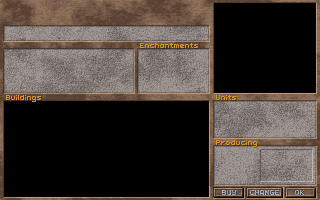
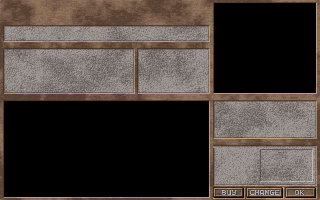
City screen: Enchantments, Buildings, Units and Producing drawn from keys; Buildings no longer clipped by the town view (task 511)
Claude-Session: https://claude.ai/code/session_01UzZBhySU9sHQNRBcWLfay8

diff --git a/crates/f4x-client/src/city_screen.rs b/crates/f4x-client/src/city_screen.rs
@@ -259,12 +259,13 @@ impl App {
             self.choosing = true;
         }
         self.draw_city_header(page, lay, input);
-        self.draw_city_headings(lay);
         self.draw_city_resources(&mut page.panel, city, lay, input);
         self.draw_city_buildings(&mut page.panel, city, lay, input);
         self.draw_city_area(page, lay, input);
         self.draw_city_garrison(city, lay);
         self.draw_city_production(page, lay, input);
+        // After the town view, so that nothing covers the tail of the g of Buildings.
+        self.draw_city_headings(lay);
         if renaming {
             self.choosing = was_choosing;
             self.draw_rename_box(page, input);
@@ -444,9 +445,18 @@ impl App {
     /// race line (the same font and gold, measured from the picture).
     fn draw_city_headings(&mut self, lay: Layout) {
         let view = Self::view(lay);
-        let text = self.text("city.heading_resources");
         let style = Style::city_figures().edge(rgb(0x59, 0x41, 0x34));
-        self.draw_styled(view, &style, &text, 6.0, 43.0);
+        // The top left of each heading's lettering, in the original's pixels.
+        for (key, x, y) in [
+            ("city.heading_resources", 6.0, 43.0),
+            ("city.heading_enchantments", 140.0, 43.0),
+            ("city.heading_buildings", 6.0, 95.0),
+            ("city.heading_units", 216.0, 95.0),
+            ("city.heading_producing", 216.0, 140.0),
+        ] {
+            let text = self.text(key);
+            self.draw_styled(view, &style, &text, x, y);
+        }
     }
 
     fn draw_city_header(&mut self, page: &mut CityPage, lay: Layout, input: &Input) {

diff --git a/scripts/city_headings_text_free.py b/scripts/city_headings_text_free.py
@@ -3,7 +3,7 @@
 
 Reads `assets-local/screens/city_screen/background_00.png` (local-only extractor output, `backgrnd`
 entry 6) and writes `crates/f4x-client/assets/city/background.png`: the same 320x200 picture with
-the headings taken out (Resources so far), so the client draws them itself from the text keys
+the headings taken out (Resources, Enchantments, Buildings, Units and Producing), so the client draws them itself from the text keys
 `city.heading_*` and they can be localised. Needs Pillow (`.venv`).
 
 A heading is gold lettering (df961c) with a darker edge and shadow on the speckled brown bar. The
@@ -26,6 +26,14 @@ GOLD = (0xDF, 0x96, 0x1C)
 # is inclusive.
 HEADINGS = [
     ("resources", 3, 52, 42, 48, 52),
+    # Taken from the clean stretch of the Resources bar, the same rows (the bar is 85 columns
+    # to the left).
+    ("enchantments", 137, 201, 42, 48, -85),
+    # The tail of the g reaches the row of the frame under the bar (101).
+    ("buildings", 4, 43, 94, 101, 45),
+    ("units", 213, 238, 94, 100, 25),
+    # The tail of the g reaches the first row of the panel (146), its shadow the next.
+    ("producing", 213, 260, 139, 147, 45),
 ]
 
 

diff --git a/docs/scripts.md b/docs/scripts.md
@@ -30,7 +30,7 @@ row when you add or change a script (see `CLAUDE.md`).
 | `unused_art.py` | Lists the screen pictures no run of the client read (`F4X_TRACE_ART=FILE` makes the client append every picture file it reads to FILE): candidates for `crates/f4x-client/extract/unused.tsv`, to be checked by hand (computed indexes make a picture look unread). No dependencies. |
 | `button_text_free.py` | Makes the text-free copies of the main screen's buttons (`assets-local/screens/main_screen/button_<name>_00.png` to `crates/f4x-client/assets/button/<name>.png`): the seven menu-bar buttons (style 4 label with its three "shadow down" copies) the Next Turn button (style 4 gold lettering, dark shadow, cleaned by colour) the unit window's Done, Patrol, Wait, Build, Meld and Purify (style 0 label, up and locked) the city screen's wooden Buy, Change and OK (`city_<name>.png`, style 1 label in lavender grey) the army list's blue Items and Ok (`panel_41.png`), the item screen's stone Alchemy and Ok (`stone_59.png`), the magic screen's blue ones (`blue_26.png`, `blue_58.png`) the new game screens' wooden OK (`wood_64.png`, `wood_30.png`), the options screen's `options_frame.png`, the battle screen's blank gold button (`battle.png`, `battle_locked.png`) and their lettering's metallic sheen (`sheen_<family>_<button>.png`, the colour of each diagonal) and the plank `plank_<width>.png` (38, 39, 40, 58) (the load/save blank widened, for the Settings Ok). The label's ink is found by its colour and its pixels are filled with the marbling of the same row. The client draws the labels itself (`menu_bar_art.rs`, `action_button_art.rs`). Also the question boxes' `yes.png`/`no.png`, the alchemy popup's `alchemy_frame.png`/`alchemy_stone.png`, and the crafting screen's `tab.png`/`craft_ok.png`. Reads the originals from `assets-local/`, or from `assets-unused/` where they moved. Needs Pillow (`.venv`). |
 | `button_label_font.py` | Makes `assets/button/label.{fnt,png}`, style 0 with the serif "I" of the original's BUILD picture (the Build label's font), and `assets/button/wood.{fnt,png}`, style 1 with the letters of BUY, CHANGE and OK cut from the city screen's pictures, with their darker corner pixels (the font of the wooden buttons' labels), and `assets/button/battle_label.{fnt,png}`, style 0 with the original's own I, W, N, S, F and O (the battle buttons' font). Needs Pillow (`.venv`). |
-| `city_headings_text_free.py` | Makes `crates/f4x-client/assets/city/background.png`, the city screen's background (`backgrnd` 6, 320x200) with the baked headings painted over with the bar's own texture from a clean stretch of the same rows (task 511; Resources so far). `--check` only verifies the picture. Needs Pillow (`.venv`). |
+| `city_headings_text_free.py` | Makes `crates/f4x-client/assets/city/background.png`, the city screen's background (`backgrnd` 6, 320x200) with the baked headings painted over with the bar's own texture from a clean stretch of the same rows (task 511: Resources, Enchantments, Buildings, Units, Producing). `--check` only verifies the picture. Needs Pillow (`.venv`). |
 | `font_match.py` | Ranks the fonts in `reference/fonts` by how closely their pixels match the original's font styles (`assets-local/art/fonts/bmfont`): draws each without anti-aliasing at sizes 5 to 24 (a variable font at its lightest, default and heaviest weight) and scores the overlap of each glyph with the original's. `--style N`, `--top N`, `--sizes MIN MAX`, `--only TEXT`. Needs Pillow (`.venv`). See `docs/fonts.md`. |
 | `font_editor.py` | A pixel editor for the BMFont files the client ships (`crates/f4x-client/assets/fonts`): serves `scripts/font_editor.html` on 127.0.0.1:8765, where a glyph is edited on a pixel grid (paint, erase, shift, flip, resize, y offset, advance, undo, live text preview) and saved into the atlas, copied into every colour set; the first save keeps the originals in `assets-local/art/fonts/orig`. `--dir`, `--port`. `f4x-extract art` writes its own copy elsewhere, so it does not overwrite the edits. Needs Pillow (`.venv`). |
 | `font_add_half.py` | Adds the glyph ½ (U+00BD) to the client font styles 0 to 5 (`crates/f4x-client/assets/fonts`): the next free cell of the glyph grid, a system font's ½ drawn without anti-aliasing at the height of the style's digit `1`, in that digit's colour, copied into every colour set. Rough on purpose; fix it in `font_editor.py`. Idempotent. Needs Pillow (`.venv`). |

diff --git a/docs/TASKS.md b/docs/TASKS.md
@@ -267,7 +267,7 @@ and make invalidation explicit and testable so the client never displays stale i
 **511. Screens whose headings and names are still baked into pictures.** Split from task 359 on 9 November 2026; the method is in task 359 (find, make plain with a tool in `f4x-tools`, draw the words from a text key, fonts, check; the button work is the model: `docs/archive/button-text-checklist.md`). Not retyped here. The list below comes from screenshots of the screens (`f4x-client --shot FILE --magic` and the like) checked against the text keys: a word on the screen with no key in `crates/f4x-client/content/text/en/` is in the picture. Put the final table (file, entry, the words, where the client draws it) in `docs/extract-art.md` as step 1 of 359 says.
 - **Confirmed baked (no text key for the words):**
   - **Magic screen**: done 13 November 2026. `magic_headings` in `magic_screen.rs` covers the four headings of `magic` 0 with the bar's brown and draws them from `magic.heading_*` in the blackletter (style 4, the original's colours; a word wider than its bar, "Research", is drawn letter by letter with the spacing closed up). The background picture itself still has the English words under the cover.
-  - **City screen** (`--city`, `city_screen.rs`): **"Resources" done 17 November 2026** (`scripts/city_headings_text_free.py` makes `crates/f4x-client/assets/city/background.png`, the picture with the heading painted over with the bar's own speckle from a clean stretch of the same rows; `draw_city_headings` draws `city.heading_resources` in `Style::city_figures()` with the edge `594134`: the gold pixels match the original's exactly; the original's shadow is a little darker). Left: "Enchantments", "Buildings" (drawn above the town view, not clipped by it, the user's ruling 17 November 2026), "Units" and "Producing" (add each to `HEADINGS` in the script and to `draw_city_headings`); the headings (and "Barbarian"-style race line and the "Capital of ..." title are drawn: check that the title's key exists for every size).
+  - **City screen** (`--city`, `city_screen.rs`): **the five headings done 17 November 2026** (`scripts/city_headings_text_free.py` makes `crates/f4x-client/assets/city/background.png`, the picture with the heading painted over with the bar's own speckle from a clean stretch of the same rows; `draw_city_headings` draws `city.heading_resources` in `Style::city_figures()` with the edge `594134`: the gold pixels match the original's exactly; the original's shadow is a little darker). The other four are done the same day: "Enchantments", "Buildings" (drawn after the town view so nothing clips it, the user's ruling), "Units" and "Producing" (`HEADINGS` in the script, `draw_city_headings`); their gold pixels match the original's except the tail of the g in Buildings and Producing: the shipped font's `g` in style 1 has one row less than the picture's (`.##. #..# #..# .### ...# ###.`), left as it is since the glyph is shared. The headings (and "Barbarian"-style race line and the "Capital of ..." title are drawn: check that the title's key exists for every size).
   - **Item screen** (`--items`): the plaque title "Fortress Vault" (no key; the Alchemy and Ok buttons are done).
   - **Enemy city and outpost screens** (`enemy_city_screen.rs`): "Enchantments" and "Buildings" have no key ("Units" has: `enemy_city.units`); check whether they are baked or drawn from code.
   - **Wizard screen** (`--wizard`): the heading "Heroes" has no key (checked on the screenshot; "Relations", "Treaties", "Personality", "Objective" are drawn from keys).
